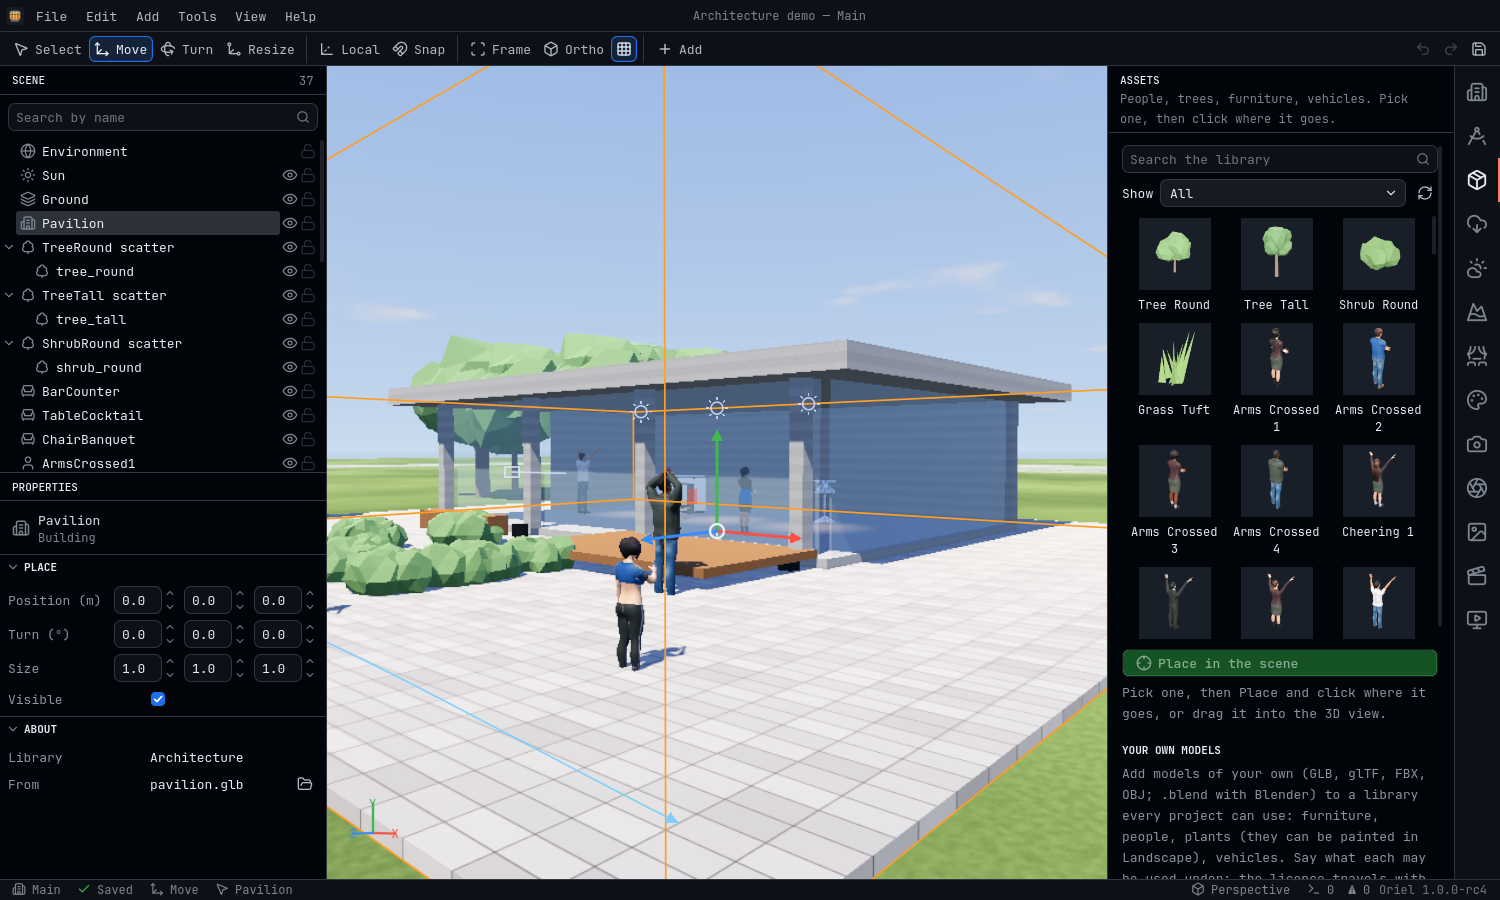
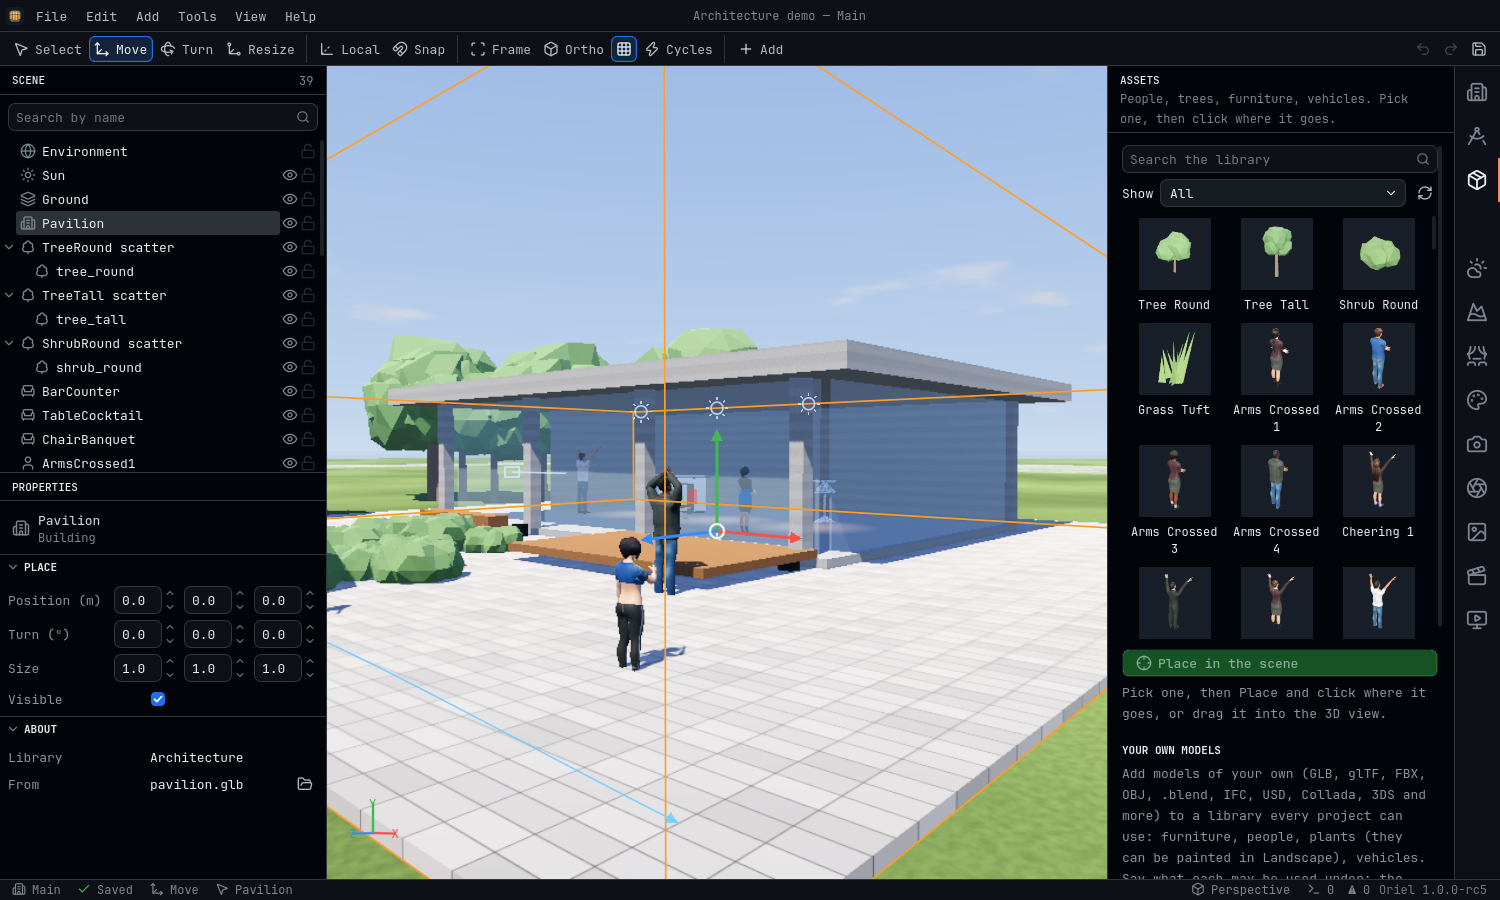
The Scene page's large-scene buttons one under another; pictures for the guides
- The four buttons of "A large scene" sat in a flowing row, where the
  page's rule that long button names may break their words left them a
  few pixels wide and a screen high (seen in the screenshot tour). They
  are stacked now, and buttons in flowing rows keep their words whole.
- The count of a scene leaves out the boxes things are shown as.
- The Assets page names the new model formats; the tour's "shown as a
  box" picture uses a vehicle, framed.
- Guides: pictures of the timeline, of Cycles in the 3D view and of things
  shown as boxes (taken from the AppImage); the start screen and the
  workspace as they are in rc5; the AppImage's sizes in the inventory.
- Suites: 565 checks (modules 179).

Claude-Session: https://claude.ai/code/session_01JJc57sSPYVamSAjGMD5nFU

diff --git a/START_HERE.md b/START_HERE.md
@@ -7,7 +7,7 @@ Oriel (called Genesis Community up to rc3) is free architectural and event visua
 > - **What is new in rc5:** what Lumion, D5 and V-Ray users would miss. IFC, USD, Collada and 3DS models; lights in lumens and kelvin with IES files; a light mixer, more passes and EXR; wind, wet surfaces, puddles and snow; relief (true displacement), caustics, light inside and volumetric clouds; layered materials; keyframes, a timeline, transitions, titles and sound; rows, fills and traffic; Cycles in the 3D view; walking through the project on the screen or a VR headset; and tools for large scenes. Section 4 has a table of where each is. See [CHANGELOG.md](CHANGELOG.md).
 > - **What was new in rc4:** Eevee and Cycles built in (choose the renderer on the Render page; nothing to install), the *Online* page with BlendKit, Poly Haven and ambientCG, a starter pack of free assets (also from a terminal with `--get-assets`), and the new name. See [docs/RENDERING.md](docs/RENDERING.md) and [docs/ONLINE_LIBRARY.md](docs/ONLINE_LIBRARY.md).
 > - **What was new in rc3:** a professional interface. GitHub's Dark Default theme (as VSCodium shows it) in JetBrains Mono, icons throughout, a strip of icons for the twelve pages, models placed by clicking or dragging where they go, and one way of choosing files and folders everywhere. Every feature of rc2 is still there. See [CHANGELOG.md](CHANGELOG.md).
-> - **Linux:** one AppImage (about 640 MB, with the engines), tested on Ubuntu 24.04 (the base of Kubuntu 24.04) with software rendering and no graphics card: every automated suite, the smoke tour and the end-to-end test, run from the AppImage itself.
+> - **Linux:** one AppImage (about 700 MB, with the engines), tested on Ubuntu 24.04 (the base of Kubuntu 24.04) with software rendering and no graphics card: every automated suite, the smoke tour and the end-to-end test, run from the AppImage itself.
 > - **Windows:** not part of this delivery. The Windows program is built from the same source, but has **not** been run on Windows yet.
 >
 > What is still open is listed in [docs/KNOWN_LIMITATIONS.md](docs/KNOWN_LIMITATIONS.md). Everything the AppImage contains, and everything it writes on your computer, is in [docs/INVENTORY.md](docs/INVENTORY.md).
@@ -266,7 +266,7 @@ bash tools/build_appimage.sh appimagetool-x86_64.AppImage runtime-x86_64 ~/genes
 
 **Tested** on Ubuntu 24.04 with software Vulkan (lavapipe):
 
-- 564 headless checks in five suites, and a smoke tour of the whole program.
+- 565 headless checks in five suites, and a smoke tour of the whole program.
 - The built program's own smoke tour, with the bundled library and the material presets.
 - The end-to-end test in five launches with real renders: 1080p, 4K, 360° (mono, stereo and a virtual tour), photo match, a sun study, render passes, Real-ESRGAN, MP4, a concert render, and a walkthrough film with two people walking along a path drawn with the path tool.
 - Importing glTF, OBJ, FBX and `.blend` (with Ubuntu's Blender 4.0.2), DXF, and PDF plans (as lines and as pictures).

diff --git a/docs/INVENTORY.md b/docs/INVENTORY.md
@@ -72,17 +72,17 @@ Your projects are yours and are not touched.
 
 ## 2. Inside the AppImage
 
-One file of about 640 MB; its exact size and SHA-256 are in the `.sha256` file that comes with it (a file cannot hold its own checksum). It opens as a read-only folder of 1355.7 MB in 5,104 files:
+One file of about 700 MB; its exact size and SHA-256 are in the `.sha256` file that comes with it (a file cannot hold its own checksum). It opens as a read-only folder of 1569.8 MB in 5,779 files:
 
 | Path inside the AppImage | Size | What it is |
 |---|---|---|
 | `AppRun` | 2 KB | starts the program; `--install-shortcut`, `--remove-shortcut` and `--get-assets` (the starter-pack script, run by the engines' Python) |
 | `oriel.desktop`, `oriel.png`, `.DirIcon` | small | the desktop entry and the icon |
 | `usr/lib/oriel/Oriel.x86_64` | 73.5 MB | the program: Godot 4.7.2's runtime |
-| `usr/lib/oriel/Oriel.pck` | 184.7 MB | everything else of the program: its scripts (and the Blender-side scripts), the theme, the fonts, the icons, the model library and the material presets |
-| `usr/lib/oriel/engine/` | 1070.9 MB | Eevee and Cycles: Blender 5.2.3 as a Python module with its own CPython 3.13.14, and their licences (`engine/LICENSES/`) |
-| `usr/lib/oriel/docs/` | 10.3 MB | the manual (HTML and PDF), the guides and their pictures, for *Help > Documentation* |
-| `usr/lib/oriel/demos/` | 16.0 MB | the two demo projects; *Try a demo* copies one into your projects folder |
+| `usr/lib/oriel/Oriel.pck` | 187.4 MB | everything else of the program: its scripts (and the Blender-side scripts), the theme, the fonts, the icons, the model library and the material presets |
+| `usr/lib/oriel/engine/` | 1279.8 MB | Eevee and Cycles: Blender 5.2.3 as a Python module with its own CPython 3.13.14; IfcOpenShell and Assimp, for reading IFC, Collada and 3DS models; and their licences (`engine/LICENSES/`) |
+| `usr/lib/oriel/docs/` | 11.0 MB | the manual (HTML and PDF), the guides and their pictures, for *Help > Documentation* |
+| `usr/lib/oriel/demos/` | 17.8 MB | the two demo projects; *Try a demo* copies one into your projects folder |
 | `usr/share/applications/`, `usr/share/icons/`, `usr/share/metainfo/` | small | the desktop entry, the icon (PNG and SVG) and the AppStream description, for software centres |
 | `usr/share/doc/oriel/` | 0.2 MB | README, LICENSE, THIRD_PARTY_NOTICES, CHANGELOG, this inventory, the font's licence (OFL.txt), `oriel_assets.py` and `starter_pack.json` |
 

diff --git a/docs/KNOWN_LIMITATIONS.md b/docs/KNOWN_LIMITATIONS.md
@@ -43,7 +43,7 @@ Honest list of what does not work, is not included, or was not tested.
 - **Light brightness**: lamps in the editor fade with distance in their own way, Blender's physically; the brightness is matched where each lamp's light lands (found along its beam), so very near or very far from a lamp it can differ from the editor.
 - **BlendKit, Poly Haven and ambientCG were not reached from the build machine** (its network allows only a few sites). The BlendKit Client was downloaded from its GitHub release, started, and answered Oriel; its search reached BlendKit's server and was refused by the build machine's network. Poly Haven was tested against a local stand-in made from its published API; ambientCG's newer API (v3) was written from its documentation and not tried. The first real searches, logins and downloads will be yours.
 - **BlendKit materials and skies** arrive as Blender files and are converted by the built-in engine; procedural BlendKit materials (no pictures) become their flat colour.
-- **Size**: the engines make the AppImage about 640 MB (Blender's engines are about 870 MB unpacked).
+- **Size**: the engines make the AppImage about 700 MB (they are about 1280 MB unpacked, 190 MB of that the IFC reader).
 
 ## Not tested in this release
 

diff --git a/docs/RENDERING.md b/docs/RENDERING.md
@@ -70,6 +70,8 @@ With Cycles chosen: *Render for the light mixer*, then *Open the light mixer*. T
 
 ## Cycles in the 3D view
 
+![Cycles in the 3D view: the engine's picture of the view, at its third step of four](screenshots/07_cycles_in_the_view.png)
+
 *View > Cycles in the View* (F10, or the *Cycles* switch on the tool bar; *Eevee in the View* is Shift+F10) lays the engine's picture of the view over it. The scene is handed to the engine once (a few seconds for a small scene, longer for a large one); then, whenever the view is left alone, a first coarse picture comes quickly and three finer ones follow, the last at the view's full size. Turn the view and the 3D view itself shows at once, until the engine has caught up. Change the scene (move a thing, change a material, the sun) and it is handed over again. Switched off, the engine stops.
 
 It shows the scene as a render would: with shown-as-boxes things in full, without the grid, the handles and the outlines of what is selected. Work in the 3D view; look in the live view.

diff --git a/CHANGELOG.md b/CHANGELOG.md
@@ -52,7 +52,7 @@ What Lumion, D5 and V-Ray users would miss, added. Every feature of rc4 is kept,
 
 ### Tests
 - A lab (`tests/dev/lab.gd`, run by `--script`): scenes built with the program's own tools, rendered by the three renderers and measured: model formats, IES beams, the light mixer, haze, weather, wind, relief and light inside, caustics, clouds, the walk-through (on Monado's stand-in headset too), a film with keys, a dissolve, a title and sound, layered materials, a street with a spread and traffic, the live view, a five-million-triangle scene. Run from the source and again from the AppImage itself (`reports/LAB_RESULTS.md`).
-- The headless suites grew from 419 checks to 564; the module suite alone tripled, to 178.
+- The headless suites grew from 419 checks to 565; the module suite alone tripled, to 179.
 
 ## 1.0.0-rc4 (Oriel)
 

diff --git a/README.md b/README.md
@@ -34,6 +34,12 @@ Rendered by the program itself, from its two demo projects (Standard quality, so
 | ![Architecture demo, golden hour](docs/screenshots/demo_architecture_golden_hour.jpg) | ![Event production demo, photo pit](docs/screenshots/demo_event_photo_pit.jpg) |
 | ![A frame of the demo film: people walking across the plaza on a drawn path, under the film's title](docs/screenshots/demo_architecture_walk.jpg) | ![Architecture demo, the plaza camera](docs/screenshots/demo_architecture_plaza.jpg) |
 
+New in rc5, among much else: a timeline with keys, transitions and titles, and Cycles in the 3D view while you work.
+
+| | |
+|---|---|
+| ![The timeline under the 3D view](docs/screenshots/06_timeline.png) | ![Cycles in the 3D view](docs/screenshots/07_cycles_in_the_view.png) |
+
 ## What it does
 
 | Section | What it does |

diff --git a/docs/MOVIE_AND_ANIMATION.md b/docs/MOVIE_AND_ANIMATION.md
@@ -16,6 +16,8 @@ With *Eevee* or *Cycles* chosen on the Render page, the Movie page renders the f
 
 ## Keys and the timeline
 
+![The timeline under the 3D view: the demo film's two shots, the second coming in with a dissolve, and its title](screenshots/06_timeline.png)
+
 *View > Timeline* (Ctrl+T) opens the timeline under the 3D view. It shows the film's length, its shots, its titles and a row for everything that has keys. Drag in the ruler (or press Left and Right) to move through the film; Space plays.
 
 - **Key the selection** (K): records how the selected objects are at this moment of the film: place, turn and size; a light's brightness and colour; a camera's lens. Move to another moment, change them, key again: in between they move from one to the other. A camera with keys can be used in a shot like any other.

diff --git a/docs/PERFORMANCE.md b/docs/PERFORMANCE.md
@@ -8,6 +8,8 @@
 
 ## Large scenes
 
+![Two vehicles shown as boxes in the 3D view, and the scene counted on the Scene page](screenshots/08_large_scene.png)
+
 *Scene > A large scene*:
 
 - **Count the scene** says how large it is: triangles, objects, different shapes, scattered copies, lights, materials, megabytes of pictures; what the 3D view is drawing at the moment and how many times a second; and the heaviest things in it. Start there: one over-detailed sofa is a commoner cause of a slow view than the size of the building.
